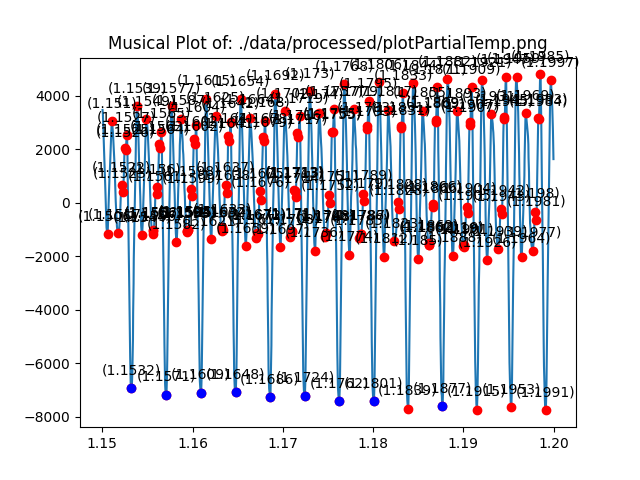
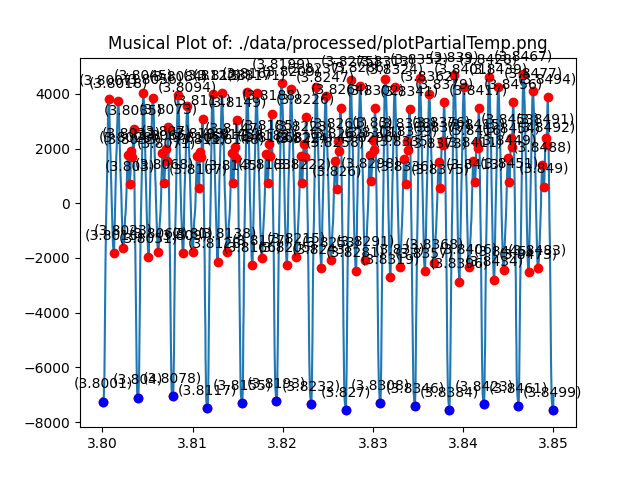
Updated README

diff --git a/README.md b/README.md
@@ -1,3 +1,5 @@
+#This Project is developed to take a wav file of a single voice of music and get the musical pitch at any time frame.
+
 Imports:
 
 
@@ -9,4 +11,294 @@ import sys
 import statistics
 import random
 import math
+import librosa
+```
+
+Name of User (used in application)
+
+
+```python
+userId = 'Temp'
+```
+
+Load audio file (only accepts .wav file)
+
+
+```python
+originalFileLoc = "./data/raw/testAudioVoice.wav"
+x, sr = librosa.load(originalFileLoc)
+audioDuration = librosa.get_duration(y=x, sr=sr)
+```
+
+Set values
+
+
+```python
+defaultDecimalRate = 5
+defaultLoweringRate = 3
+defaultDurationTime = 0.05
+defaultMinDist = 0.05
+
+pitchToLetter = {
+    0: 'C',
+    1: 'C#',
+    2: 'D',
+    3: 'D#',
+    4: 'E',
+    5: 'F',
+    6: 'F#',
+    7: 'G',
+    8: 'G#',
+    9: 'A',
+    10: 'A#',
+    11: 'B'
+}
+
+pitches = {0: 65.406}
+currentPitch = 0
+while currentPitch <= 71:
+    prevPitch = pitches[currentPitch]
+    currentPitch += 1
+    pitches[currentPitch] = prevPitch * (2 ** (1/12))
+```
+
+Create Functions
+
+
+```python
+def is_close(a, b, tolerance=1e-2):
+       return abs(a - b) < tolerance
+
+def lowerRate(lst, rte, decimalRate):
+    """(List of signal, updated rate (x))
+    Used to lower bitrate by a factor of x to fix fuzz"""
+    retList = []
+    for i in range(int(len(lst) / rte) - 1):
+        includedIndices = [lst[i * rte]]
+        for j in range(rte):
+            includedIndices.append(lst[(i * rte) + j + 1])
+        retList.append(round(statistics.median(includedIndices),decimalRate))
+    return (retList)
+```
+
+Pitch Analyzer Class:
+
+
+```python
+class PitchAnalyzer:
+    def __init__(self, filename, decimalRate = defaultDecimalRate, loweringRate = defaultLoweringRate, minDist = defaultMinDist, durationTime = defaultDurationTime):
+        self.decimalRate = decimalRate
+        self.loweringRate = loweringRate
+        self.minDist = minDist
+        self.durationTime = durationTime
+        
+        spf = wave.open(filename, "r")
+        signal = spf.readframes(-1)
+        signal = np.frombuffer(signal, np.int16)
+        
+        frameRate = spf.getframerate()
+        
+        timeList = []
+        
+        newDuration = (len(signal) / frameRate)
+        if is_close(newDuration / 2, audioDuration): 
+            for i in range(len(signal)):
+                timeList.append(round((i / 2) / frameRate,self.decimalRate))
+                
+        else:
+            for i in range(len(signal)):
+                timeList.append(round(i / frameRate,self.decimalRate))
+                
+
+        
+        
+        
+            
+        if self.loweringRate != 1:
+            signal = lowerRate(signal, self.loweringRate, self.decimalRate)
+            timeList = lowerRate(timeList, self.loweringRate, self.decimalRate)
+            
+            
+        self.signal = signal.copy()
+        self.timeList = timeList.copy()
+        self.length = timeList[-1]
+        
+    def createWavGraph(self, fileLoc):
+        
+        plt.figure(1)
+        plt.title("Musical Plot of: " + fileLoc)
+        plt.plot(self.timeList, self.signal)
+        
+        # for i in (changesOfDerivative):
+        #     plt.plot(timeList[i], signal[i], 'ro')
+        #     plt.annotate(f'({round(timeList[i],4)})', (timeList[i], signal[i]), textcoords="offset points", xytext=(0, 10), ha='center')
+        # for i in (antiPeaks):
+        #     plt.plot(timeList[i], signal[i], 'bo')
+        
+        plt.savefig(fileLoc)
+        plt.close()
+
+        # plt.savefig('my_plot.png')
+    
+    def graphPitches(self, fileLoc):
+        retFreqList = []
+        retTimeList = []
+        i = 0
+        
+        while i < self.length - 0.1:
+            try:
+                retFreqList.append(self.getPitchAtTime(i))
+                retTimeList.append(i)
+            except Exception as err:
+                # print(err)
+                pass
+            i += self.durationTime
+            
+        specTimeLoc = retTimeList[random.randint(0,len(retTimeList) - 1)]
+        
+        self.getPitchAtTime(specTimeLoc, fileName = ("./data/processed/plotPartial" + userId + ".png"))
+        self.createWavGraph(fileLoc = ("./data/processed/plotFull" + userId + ".png"))
+        
+            
+        avgVal = statistics.median(retFreqList)
+        removeIndexes = []
+        for i in range(len(retFreqList)):
+            currentVal = retFreqList[i]
+            if not (currentVal) < (avgVal * (1 + (self.minDist * 10))) and (currentVal) > (avgVal * (1 - (self.minDist * 0.1))):
+                removeIndexes.append(i)
+                
+        retFreqList = [item for index, item in enumerate(retFreqList) if index not in removeIndexes]
+        retTimeList = [item for index, item in enumerate(retTimeList) if index not in removeIndexes]
+        
+        retFreqList = lowerRate(retFreqList, 5, self.decimalRate)
+        retTimeList = lowerRate(retTimeList, 5, self.decimalRate)
+            
+        plt.figure(1)
+        plt.title("Frequency (hz) over time (seconds)" )
+        plt.plot(retTimeList, retFreqList)
+        
+        # for i in (changesOfDerivative):
+        #     plt.plot(timeList[i], signal[i], 'ro')
+        #     plt.annotate(f'({round(timeList[i],4)})', (timeList[i], signal[i]), textcoords="offset points", xytext=(0, 10), ha='center')
+        # for i in (antiPeaks):
+        #     plt.plot(timeList[i], signal[i], 'bo')
+        
+        plt.savefig(fileLoc)
+        plt.close()
+            
+        
+        
+        
+         
+
+
+    def getPitchAtTime(self, startTime, fileName = False, durationTime = False):
+        """(Start time in seconds, End time in seconds, name of .wav file)
+        Returns most common frequency at the listed time"""
+        
+        if (durationTime == False):
+            durationTime = self.durationTime
+        
+        decimalRate = self.decimalRate
+        minDist = self.minDist
+        
+        startTime = round(startTime, decimalRate)
+        durationTime = round(durationTime, decimalRate)
+        
+        signal = self.signal.copy()
+        timeList = self.timeList.copy()
+        
+
+        while(startTime not in timeList):
+            startTime = round(startTime + 1 / 10 ** decimalRate,decimalRate)
+        startIndex = int(timeList.index(startTime))
+        while (startTime + durationTime not in timeList):
+            durationTime += 1 / 10 ** decimalRate
+            durationTime = round(durationTime, decimalRate)
+        endIndex = int(timeList.index(startTime + durationTime))
+
+
+        
+        signal = signal[startIndex:endIndex]
+        timeList = timeList[startIndex:endIndex]
+        
+        signalDerivative = []
+
+        for i in range(len(signal) - 1):
+            topNum = signal[i + 1]
+            botNum = signal[i]
+            signalDerivative.append(topNum - botNum)
+            
+        prevVal = signalDerivative[0]
+        changesOfDerivative = []
+        antiPeaks = []
+        for i in range(len(signalDerivative) - 1):
+            currentVal = signalDerivative[i + 1]
+            
+            if currentVal * prevVal < 0:
+                changesOfDerivative.append(i + 1)
+                if currentVal > 0:
+                    if len(antiPeaks) == 0:
+                        antiPeaks.append(i+1)
+                    else:
+                        avgPeak = 0
+                        for j in antiPeaks:
+                            avgPeak += signal[j]
+                        avgPeak /= len(antiPeaks)
+                        if (signal[i + 1] <= (avgPeak * (1-minDist))):
+                            antiPeaks.append(i+1)
+                            
+            prevVal = currentVal
+        
+        peakVals = []
+        for i in antiPeaks:
+            peakVals.append(signal[i])
+
+        avgPeak = statistics.median(peakVals)
+        removeIndexes = []
+        for i in range(len(antiPeaks)):
+            if not ((signal[antiPeaks[i]]) < (avgPeak * (1 - minDist)) and (signal[antiPeaks[i]]) > (avgPeak * (1 + minDist))):
+                removeIndexes.append(i)
+                
+        antiPeaks = [item for index, item in enumerate(antiPeaks) if index not in removeIndexes]
+
+        frequencies = []
+        
+        for i in range(len(antiPeaks) - 1):
+            topNum = timeList[antiPeaks[i + 1]]
+            botNum = timeList[antiPeaks[i]]
+            if topNum != botNum:
+                frequencies.append(1/(topNum - botNum))
+            
+        avgFreq = statistics.median(frequencies)
+        
+        if (fileName != False):
+        
+            plt.figure(1)
+            plt.title("Musical Plot of: " + fileName)
+            plt.plot(timeList, signal)
+            for i in (changesOfDerivative):
+                plt.plot(timeList[i], signal[i], 'ro')
+                plt.annotate(f'({round(timeList[i],4)})', (timeList[i], signal[i]), textcoords="offset points", xytext=(0, 10), ha='center')
+            for i in (antiPeaks):
+                plt.plot(timeList[i], signal[i], 'bo')
+
+            plt.savefig(fileName) 
+            plt.close()
+        
+        return(avgFreq)
+```
+
+Create analyzer
+
+
+```python
+thisAnalyzer = PitchAnalyzer(originalFileLoc)
+```
+
+Graph all pitches
+
+
+```python
+thisAnalyzer.graphPitches("./data/processed/pitchesPlotFull" + userId + ".png")
 ```
